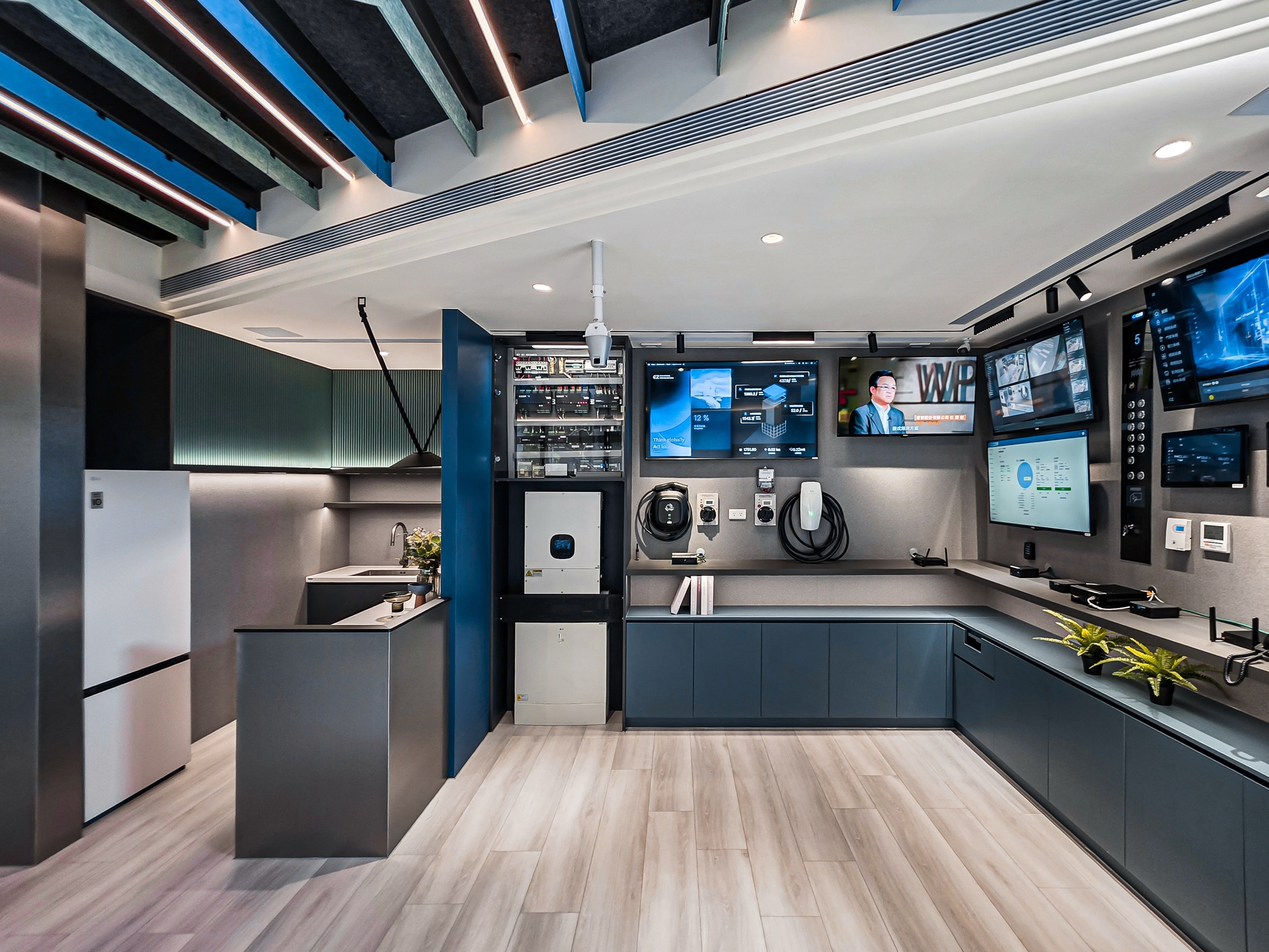
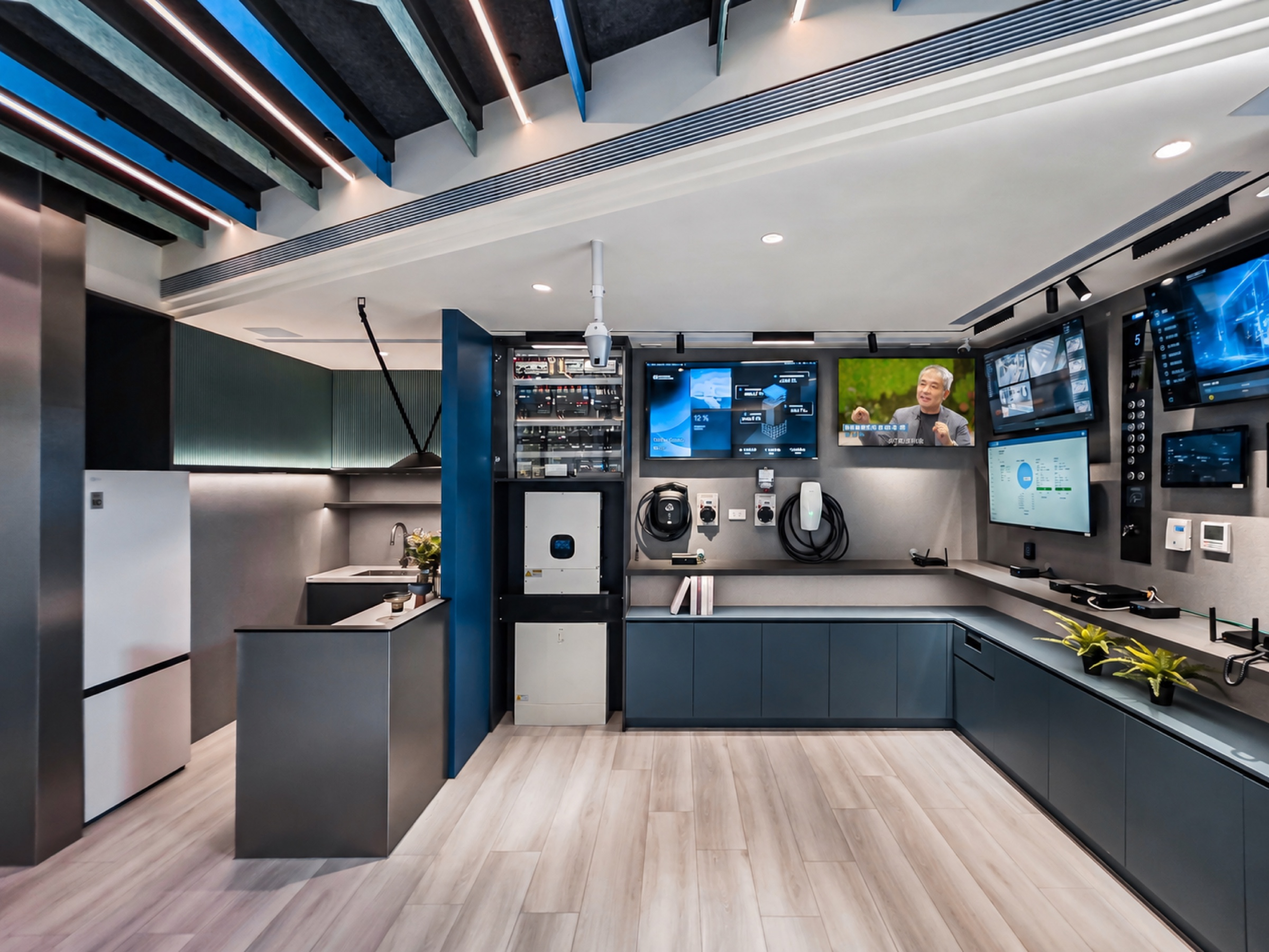
tainan-office-21.jpg

diff --git a/web_EZCON_2024IntelligentBuilding/contact.html b/web_EZCON_2024IntelligentBuilding/contact.html
@@ -329,10 +329,10 @@
                             <div class="xb-contact-items img-hove-effect xb-border">
                                 <div class="xb-item--inner">
                                     <div class="xb-img">
-                                    <a href="#!"><img src="assets/img/contact/loca_tc_2.jpg?v=20260915" alt="image"></a> 
-                                    <a href="#!"><img src="assets/img/contact/loca_tc_2.jpg?v=20260915" alt="image"></a> 
-                                    <a href="#!"><img src="assets/img/contact/loca_tc_2.jpg?v=20260915" alt="image"></a> 
-                                    <a href="#!"><img src="assets/img/contact/loca_tc_2.jpg?v=20260915" alt="image"></a> 
+                                    <a class="open-taichung-gallery-image" href="#!" aria-label="開啟台中展示空間照片藝廊"><img src="assets/img/contact/loca_tc_2.jpg?v=20260915" alt="台中展示空間"></a> 
+                                    <a class="open-taichung-gallery-image" href="#!" aria-label="開啟台中展示空間照片藝廊"><img src="assets/img/contact/loca_tc_2.jpg?v=20260915" alt="台中展示空間"></a> 
+                                    <a class="open-taichung-gallery-image" href="#!" aria-label="開啟台中展示空間照片藝廊"><img src="assets/img/contact/loca_tc_2.jpg?v=20260915" alt="台中展示空間"></a> 
+                                    <a class="open-taichung-gallery-image" href="#!" aria-label="開啟台中展示空間照片藝廊"><img src="assets/img/contact/loca_tc_2.jpg?v=20260915" alt="台中展示空間"></a> 
                                     </div>
                                     <div class="xb-item--holder">
                                         <p class="xb-item--location">台中分部
@@ -363,10 +363,10 @@
                             <div class="xb-contact-items img-hove-effect xb-border">
                                 <div class="xb-item--inner">
                                     <div class="xb-img">
-                                        <a href="#!"><img src="assets/img/contact/loca_tn_2.jpg?v=20260915" alt="image"></a> 
-                                        <a href="#!"><img src="assets/img/contact/loca_tn_2.jpg?v=20260915" alt="image"></a> 
-                                        <a href="#!"><img src="assets/img/contact/loca_tn_2.jpg?v=20260915" alt="image"></a> 
-                                        <a href="#!"><img src="assets/img/contact/loca_tn_2.jpg?v=20260915" alt="image"></a> 
+                                        <a class="open-tainan-gallery-image" href="#!" aria-label="開啟台南展示空間照片藝廊"><img src="assets/img/contact/loca_tn_2.jpg?v=20260915" alt="台南展示空間"></a> 
+                                        <a class="open-tainan-gallery-image" href="#!" aria-label="開啟台南展示空間照片藝廊"><img src="assets/img/contact/loca_tn_2.jpg?v=20260915" alt="台南展示空間"></a> 
+                                        <a class="open-tainan-gallery-image" href="#!" aria-label="開啟台南展示空間照片藝廊"><img src="assets/img/contact/loca_tn_2.jpg?v=20260915" alt="台南展示空間"></a> 
+                                        <a class="open-tainan-gallery-image" href="#!" aria-label="開啟台南展示空間照片藝廊"><img src="assets/img/contact/loca_tn_2.jpg?v=20260915" alt="台南展示空間"></a> 
                                     </div>
                                     <div class="xb-item--holder">
                                         <p class="xb-item--location">台南分部<button id="openTainanGalleryBtn" class="open-gallery-btn"><img src="assets/img/icon/project-icon07.svg" alt="icon"> 展示空間</button></p>
@@ -1321,11 +1321,13 @@
         var tainanGalleryItems = Array.from({ length: 24 }, function(_, index) {
             var number = String(index + 1).padStart(2, '0');
             var isPortrait = tainanPortraitIndexes.indexOf(index) !== -1;
+            var isUpdatedScreenPhoto = index === 20;
             var basePath = 'assets/img/contact/tainan-gallery/';
+            var cacheVersion = isUpdatedScreenPhoto ? '?v=20261019-screen-1' : '';
 
             return {
-                src: basePath + 'full/tainan-office-' + number + '.jpg',
-                msrc: basePath + 'thumbs/tainan-office-' + number + '.jpg',
+                src: basePath + 'full/tainan-office-' + number + '.jpg' + cacheVersion,
+                msrc: basePath + 'thumbs/tainan-office-' + number + '.jpg' + cacheVersion,
                 w: isPortrait ? 1800 : 2400,
                 h: isPortrait ? 2400 : 1800,
                 title: tainanGalleryCaptions[index] || ('台南展示空間 ' + (index + 1) + ' / 24')
@@ -1448,6 +1450,20 @@ document.getElementById('openGalleryBtn').addEventListener('click', function() {
 
 document.getElementById('openTainanGalleryBtn').addEventListener('click', function() {
     openBentoGallery(tainanGalleryItems, '台南展示空間', this);
+});
+
+document.querySelectorAll('.open-taichung-gallery-image').forEach(function(imageLink) {
+    imageLink.addEventListener('click', function(event) {
+        event.preventDefault();
+        openBentoGallery(taichungGalleryItems, '台中展示空間', this);
+    });
+});
+
+document.querySelectorAll('.open-tainan-gallery-image').forEach(function(imageLink) {
+    imageLink.addEventListener('click', function(event) {
+        event.preventDefault();
+        openBentoGallery(tainanGalleryItems, '台南展示空間', this);
+    });
 });
     </script>
 
